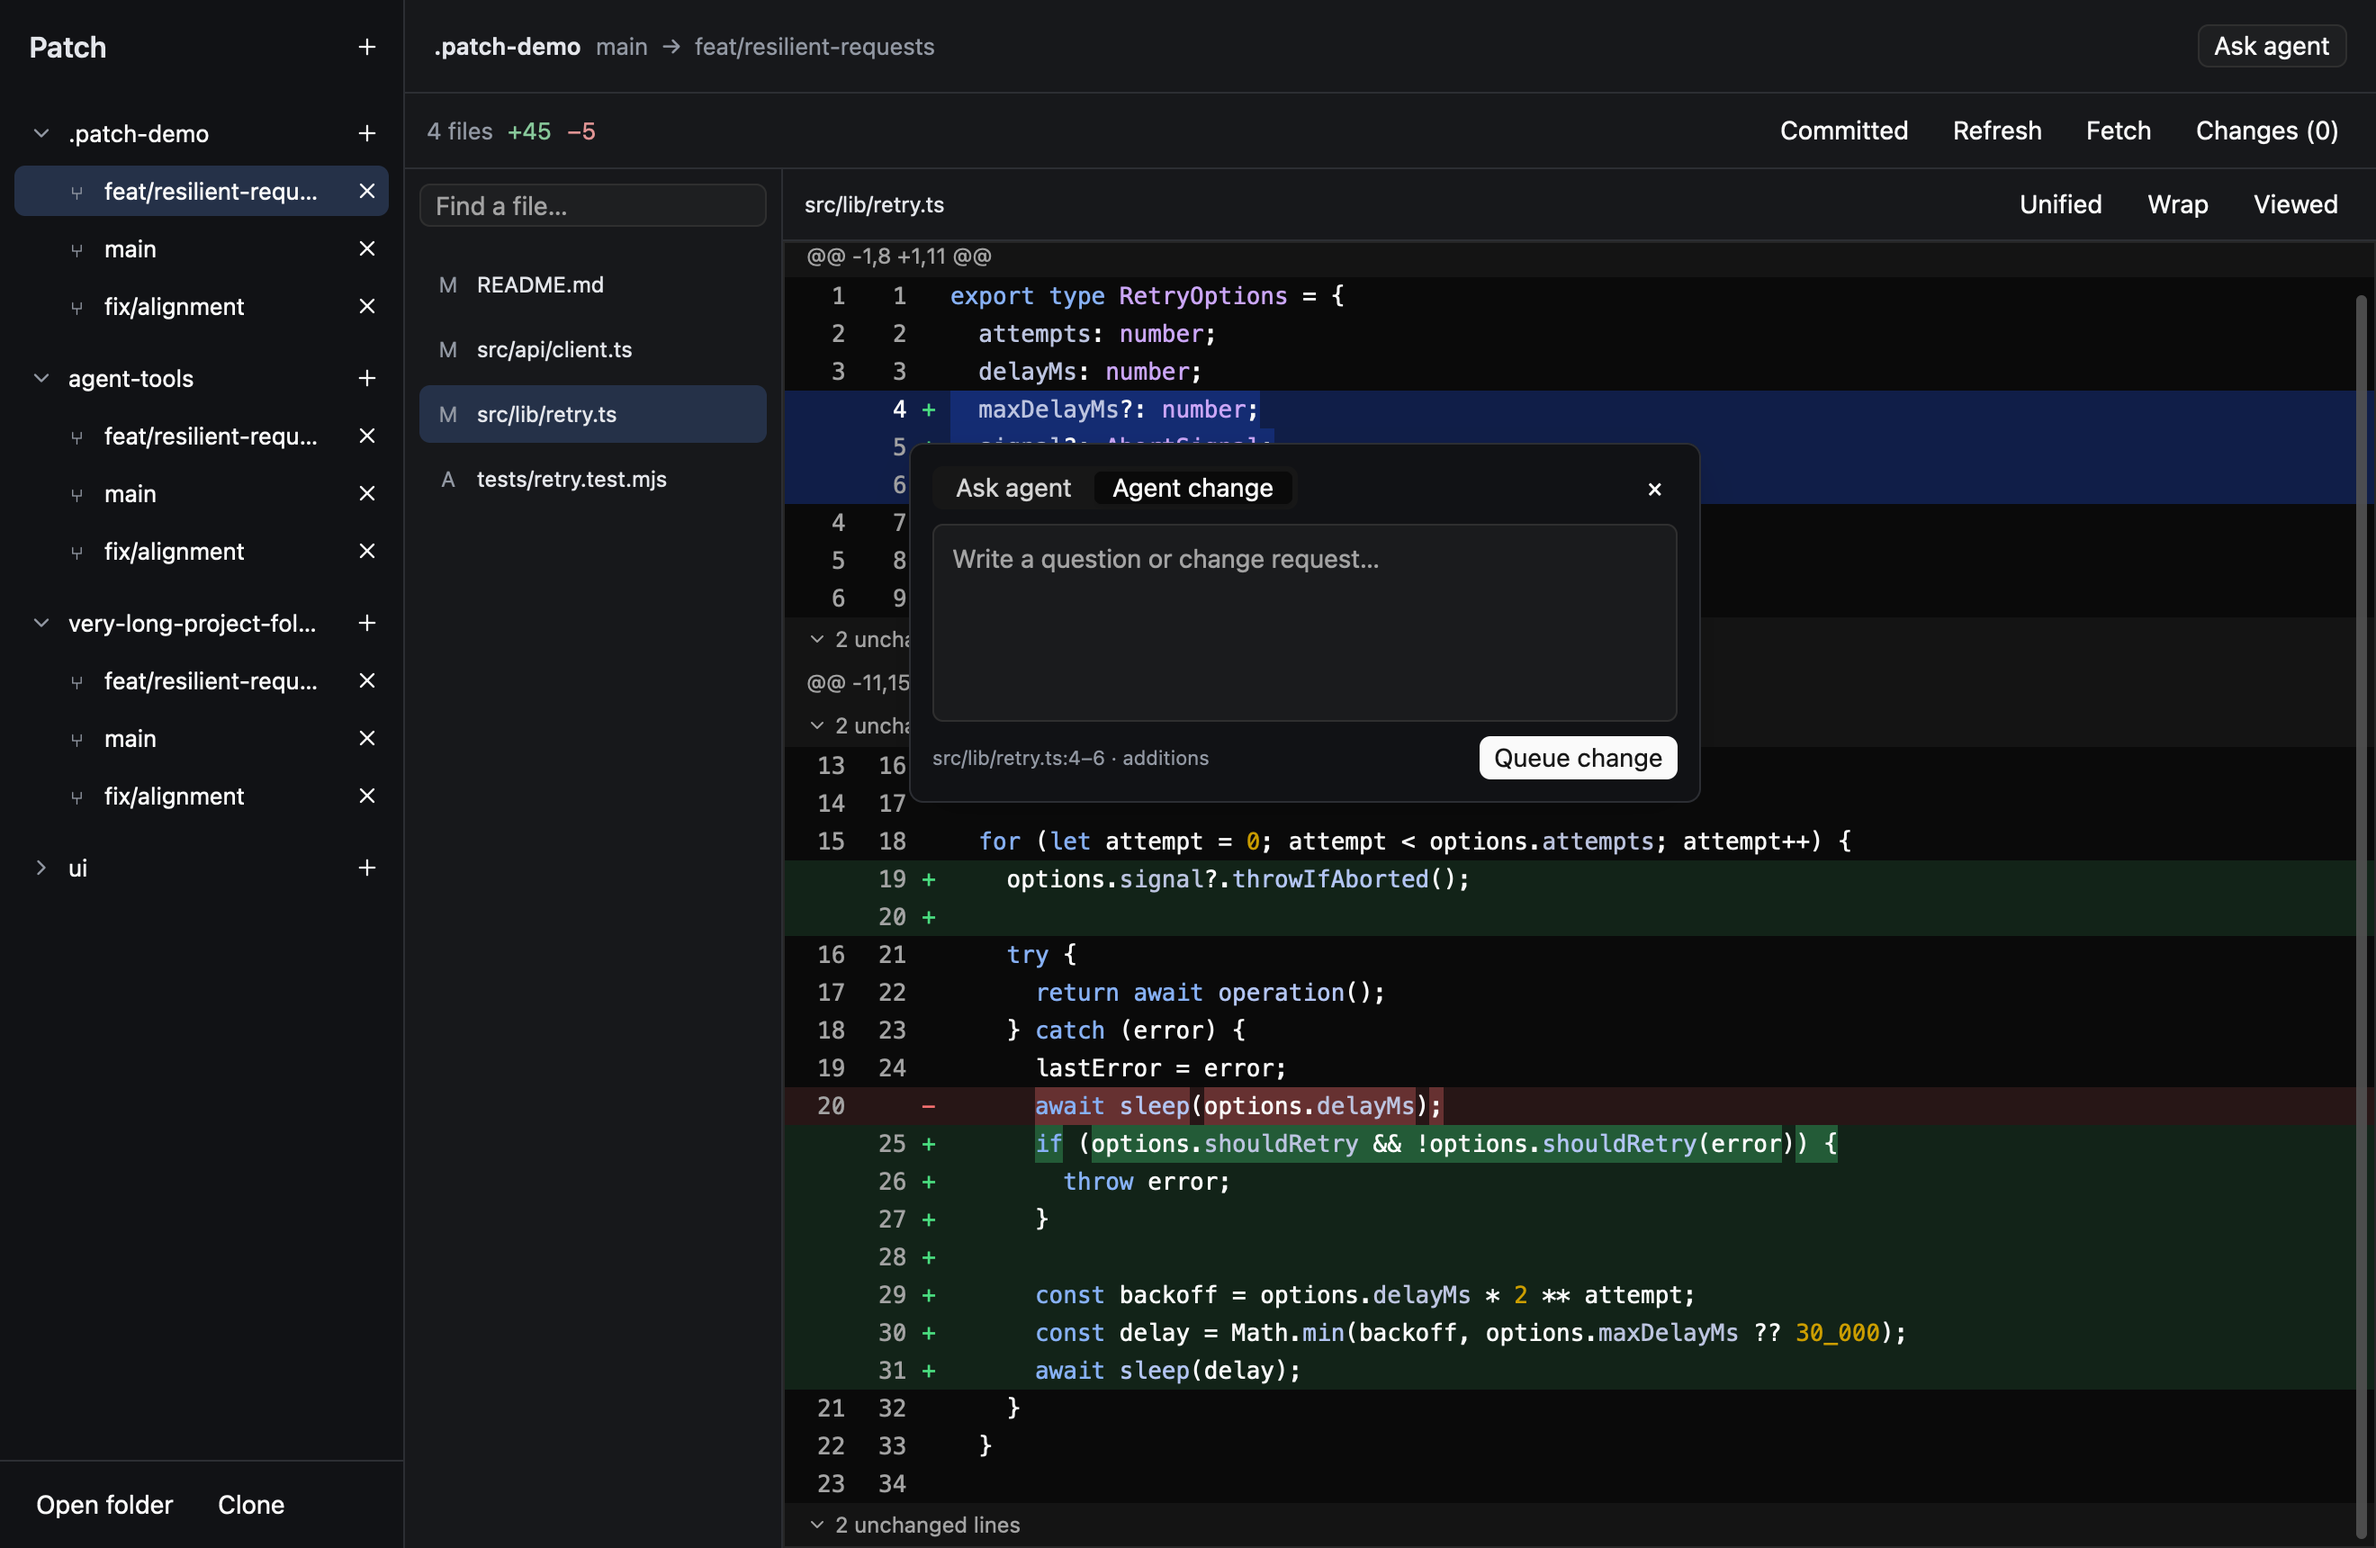
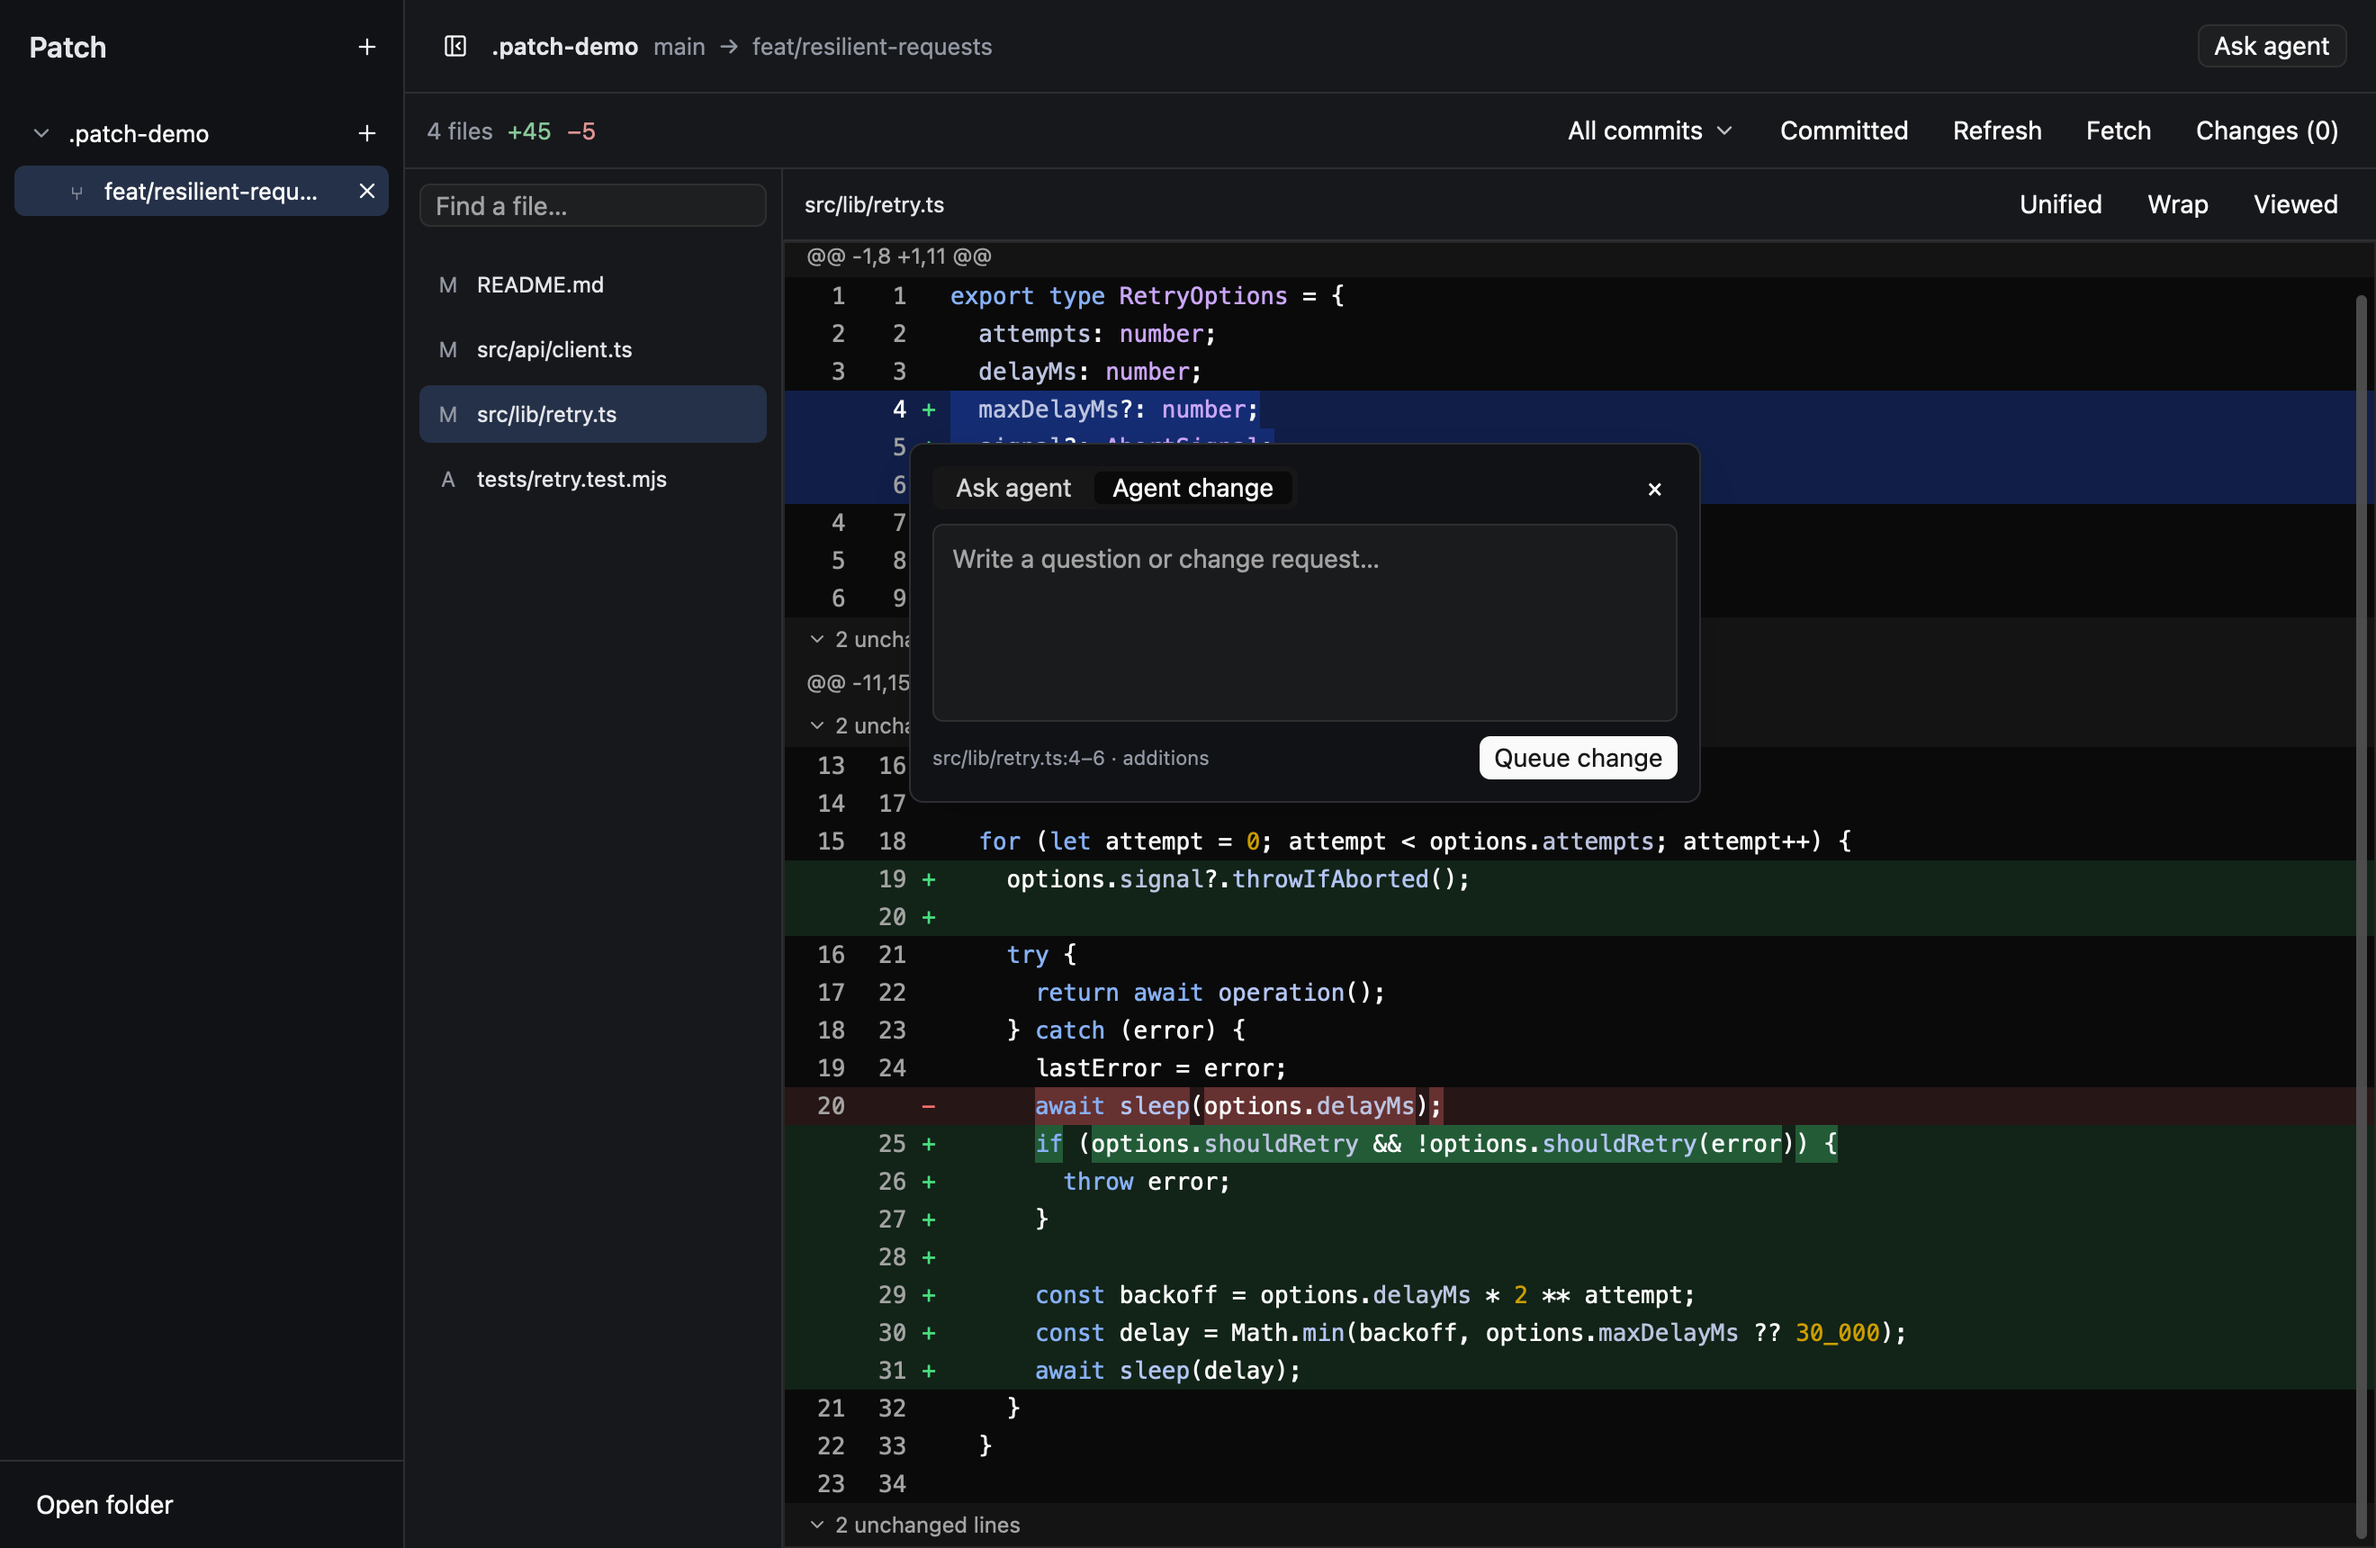
Remove repository cloning from the review app and CLI

diff --git a/src/cli.ts b/src/cli.ts
@@ -4,7 +4,7 @@ import { spawn } from 'node:child_process';
 import { existsSync } from 'node:fs';
 import { fileURLToPath } from 'node:url';
 import path from 'node:path';
-import { inspect, git, diffArgs, cloneRepo, fetchRepo, importPR, filePatch, listCommits } from './core/git';
+import { inspect, git, diffArgs, fetchRepo, importPR, filePatch, listCommits } from './core/git';
 import { addComment, readState, mutateState } from './core/store';
 import { AgentRunner, preparePrompt, providers } from './core/agents';
 import { createDemo } from './core/demo';
@@ -21,7 +21,6 @@ const help = `Patch · a local review desk for humans and agents
   patch remove <comment-id>                 Remove a comment
   patch apply [--dry-run]                    Send queued feedback to a local agent
   patch fetch [repo]                        Fetch remotes without changing checkout
-  patch clone <url> <directory>              Clone a repository
   patch pr <number-or-url>                   Fetch PR refs; print review command
   patch doctor                             Check local agent executables
   patch demo                               Create a small sample repository
@@ -72,7 +71,6 @@ async function main() {
   };
   if (action === 'doctor') { console.table(await providers()); return; }
   if (action === 'demo') return console.log(await createDemo(path.resolve('.patch-demo')));
-  if (action === 'clone') { if (args.length !== 2) throw new Error('Use: patch clone <url> <directory>'); return console.log(await cloneRepo(args[0], args[1])); }
   if (action === 'fetch') { await fetchRepo(request.repo); return console.log('Remotes fetched. Your checkout is unchanged.'); }
   if (action === 'pr') { const r = await importPR(request.repo, args[0] || ''); return console.log(`PR fetched.\npatch open ${JSON.stringify(r.repo)} --base ${r.base} --head ${r.head}`); }
   if (action === 'commits') {

diff --git a/src/core/host.ts b/src/core/host.ts
@@ -1,6 +1,6 @@
 import path from 'node:path';
 import { homedir } from 'node:os';
-import { inspect, filePatch, fetchRepo, cloneRepo, importPR, listCommits } from './git';
+import { inspect, filePatch, fetchRepo, importPR, listCommits } from './git';
 import { readState, addComment, mutateState } from './store';
 import { AgentRunner, preparePrompt, providers } from './agents';
 import { createDemo } from './demo';
@@ -29,7 +29,6 @@ export class HostService {
       case 'deleteComment': result = await mutateState(await inspect(p.review), s => { s.comments = s.comments.filter(c => c.id !== p.id); }); break;
       case 'viewed': { const review = await inspect(p.review); const patch = await filePatch(review, p.path); if (p.digest && patch.digest !== p.digest) throw new Error('This file changed while you were reviewing it. Refresh before marking it viewed.'); result = await mutateState(review, s => { if (p.viewed) s.viewed[p.path] = patch.digest; else delete s.viewed[p.path]; }); break; }
       case 'fetch': await fetchRepo(p.repo); result = true; break;
-      case 'clone': result = { repo: await cloneRepo(p.url, p.destination) }; break;
       case 'pr': result = await importPR(p.repo, p.value); break;
       case 'demo': this.sample ||= await createDemo(); result = { repo: this.sample, base: 'main', head: 'HEAD' }; break;
       case 'prompt': result = { prompt: (await preparePrompt(p)).prompt }; break;

diff --git a/src/core/git.ts b/src/core/git.ts
@@ -139,12 +139,6 @@ export async function fetchRepo(repo: string) {
   const root = await rootOf(repo);
   await git(root, ['fetch', '--all', '--prune']);
 }
-export async function cloneRepo(url: string, destination: string) {
-  if (!/^(https:\/\/|ssh:\/\/|git@)/.test(url) || /[\r\n\0]/.test(url)) throw new Error('Use an HTTPS or SSH Git URL.');
-  const target = path.resolve(destination.replace(/^~(?=\/|$)/, process.env.HOME || '~'));
-  await command('git', ['clone', '--', url, target]);
-  return rootOf(target);
-}
 export async function importPR(repo: string, value: string): Promise<ReviewRequest> {
   const root = await rootOf(repo);
   if (!/^(\d+|https:\/\/github\.com\/[^/]+\/[^/]+\/pull\/\d+\/?(?:\?.*)?)$/.test(value)) throw new Error('Enter a PR number or a github.com pull request URL.');

diff --git a/native/app/view.rs b/native/app/view.rs
@@ -232,22 +232,11 @@ impl Patch {
                     .py_2()
                     .child(projects),
             )
-            .child(
-                row()
-                    .p_3()
-                    .border_t_1()
-                    .border_color(rgb(BORDER))
-                    .child(button("open-project", "Open folder").on_click(cx.listener(
-                        |this, _, window, cx| {
-                            this.open_modal(ModalKind::Open, None, None, window, cx)
-                        },
-                    )))
-                    .child(button("clone-project", "Clone").on_click(cx.listener(
-                        |this, _, window, cx| {
-                            this.open_modal(ModalKind::Clone, None, None, window, cx)
-                        },
-                    ))),
-            )
+            .child(row().p_3().border_t_1().border_color(rgb(BORDER)).child(
+                button("open-project", "Open folder").on_click(cx.listener(
+                    |this, _, window, cx| this.open_modal(ModalKind::Open, None, None, window, cx),
+                )),
+            ))
             .into_any_element()
     }
 
@@ -917,7 +906,6 @@ impl Patch {
         }
         let title = match modal.kind {
             ModalKind::Open => "Open repository",
-            ModalKind::Clone => "Clone repository",
             ModalKind::Review => "Open branch or PR",
             ModalKind::Ask => "Ask agent",
             ModalKind::Change => "Agent change",
@@ -982,10 +970,6 @@ impl Patch {
                         .child(choices),
                 );
             }
-        } else if modal.kind == ModalKind::Clone {
-            body = body
-                .child(self.form_field(0, "Git URL", "HTTPS or SSH repository URL"))
-                .child(self.form_field(1, "Destination", "New local folder"));
         } else if matches!(modal.kind, ModalKind::Ask | ModalKind::Change) {
             body = body
                 .child(
@@ -1168,7 +1152,6 @@ impl Patch {
                     ModalKind::Ask => "Ask agent",
                     ModalKind::Change => "Queue change",
                     ModalKind::Changes => "Send to agent",
-                    ModalKind::Clone => "Clone",
                     ModalKind::Commits => "View diff",
                     _ => "Open",
                 }

diff --git a/native/app.rs b/native/app.rs
@@ -70,7 +70,6 @@ pub fn bind_shortcuts(cx: &mut App) {
 #[derive(Clone, Copy, PartialEq)]
 enum ModalKind {
     Open,
-    Clone,
     Review,
     Ask,
     Change,
@@ -728,7 +727,7 @@ impl Patch {
         self.modal_focus.focus(window, cx);
         if matches!(kind, ModalKind::Ask | ModalKind::Change) {
             self.prompt.update(cx, |input, cx| input.focus(window, cx));
-        } else if matches!(kind, ModalKind::Open | ModalKind::Clone | ModalKind::Review) {
+        } else if matches!(kind, ModalKind::Open | ModalKind::Review) {
             self.fields[0].update(cx, |input, cx| input.focus(window, cx));
         }
         cx.notify();
@@ -846,36 +845,6 @@ impl Patch {
                     self.close_modal(window, cx);
                     self.load_review(request, None, window, cx);
                 }
-            }
-            ModalKind::Clone => {
-                if values[0].is_empty() || values[1].is_empty() {
-                    self.error = Some("Enter a Git URL and destination folder.".into());
-                    return;
-                }
-                self.submitting = true;
-                self.rpc(
-                    "clone",
-                    json!({ "url": values[0], "destination": values[1] }),
-                    window,
-                    cx,
-                    move |this, result, window, cx| {
-                        this.submitting = false;
-                        if let Some(value) = this.result(result) {
-                            if this.modal_serial == modal.serial {
-                                this.close_modal(window, cx);
-                            }
-                            this.load_review(
-                                ReviewRequest {
-                                    repo: value["repo"].as_str().unwrap_or_default().into(),
-                                    ..Default::default()
-                                },
-                                None,
-                                window,
-                                cx,
-                            );
-                        }
-                    },
-                );
             }
             ModalKind::Change => {
                 if body.is_empty() {

diff --git a/native/main.rs b/native/main.rs
@@ -50,7 +50,7 @@ fn main() -> anyhow::Result<()> {
             "--working" => request.mode = Some("working".into()),
             "--help" | "-h" => {
                 println!(
-                    "Patch\n\n  patch open [repo] [--base main] [--head feature] [--working]\n  patch open [repo] --commit <ref> | --from <oldest> --to <newest>\n  patch diff | commits | ask | comment | comments | apply | fetch | clone | pr | doctor | demo\n\nRun patch help for CLI options."
+                    "Patch\n\n  patch open [repo] [--base main] [--head feature] [--working]\n  patch open [repo] --commit <ref> | --from <oldest> --to <newest>\n  patch diff | commits | ask | comment | comments | apply | fetch | pr | doctor | demo\n\nRun patch help for CLI options."
                 );
                 return Ok(());
             }

diff --git a/README.md b/README.md
@@ -35,7 +35,7 @@ The first Cargo build downloads and compiles GPUI. Later development builds are 
 
 ## Review workflow
 
-1. **Open folder** or **Clone** a repository. Open branch/PR tabs with the **+** beside its project name. Enter a branch, PR number, or GitHub PR URL; blank means the current branch.
+1. **Open folder** to choose an existing local repository. Open branch/PR tabs with the **+** beside its project name. Enter a branch, PR number, or GitHub PR URL; blank means the current branch.
 2. Pick a file. Switch between unified/split views, wrap long lines, and mark files viewed. **Committed / Working tree** changes the comparison scope. **Fetch** updates remotes without changing the checkout.
 3. Click and drag across code or line numbers—no Shift needed. On release, a floating prompt opens with **Ask agent / Agent change** tabs above its input. Switching tabs keeps your text and selected code. Shift-select also works. Select one side of the diff for an exact source range.
 4. The top **Ask agent** button asks about the whole review. A dialog contains the prompt, provider choice, response, and Stop control.

diff --git a/docs/architecture.md b/docs/architecture.md
@@ -14,7 +14,7 @@
 | Rust transport | `native/backend.rs` | private child-process pipes, request IDs, response correlation, timeouts, shutdown |
 | JSONL entrypoint | `src/host.ts` | parse requests, respond by ID, cancel agents on parent disconnect |
 | Shared host API | `src/core/host.ts` | dispatch Git, review storage, workspace and agent operations |
-| Git core | `src/core/git.ts` | merge-base diffs, lazy file patches, clone, fetch, PR import |
+| Git core | `src/core/git.ts` | merge-base diffs, lazy file patches, fetch, PR import |
 | Review store | `src/core/store.ts` | comments, patch hashes, viewed status, lock + atomic rename |
 | Workspace store | `src/core/workspace.ts` | project folders, pinned branch/PR tabs, selected files |
 | Agent adapters | `src/core/agents.ts` | executable discovery, prompt construction, permissions, output events, cancellation |
